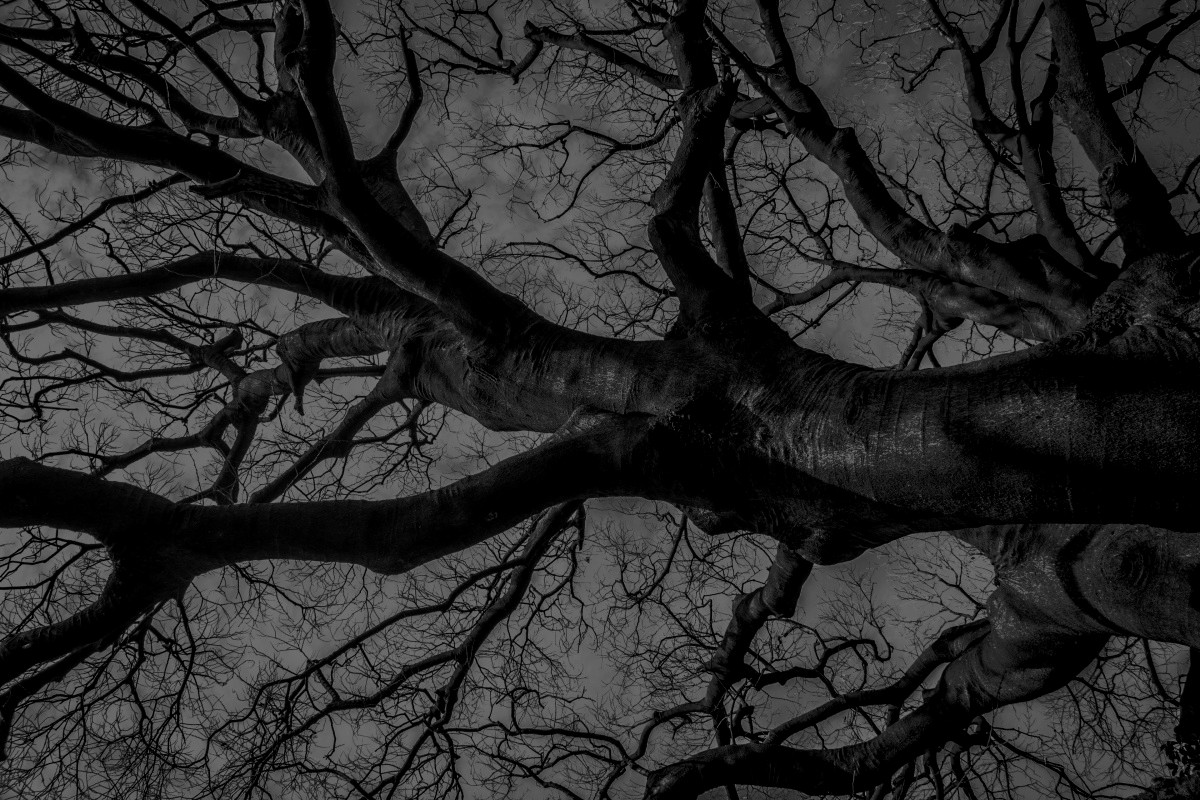
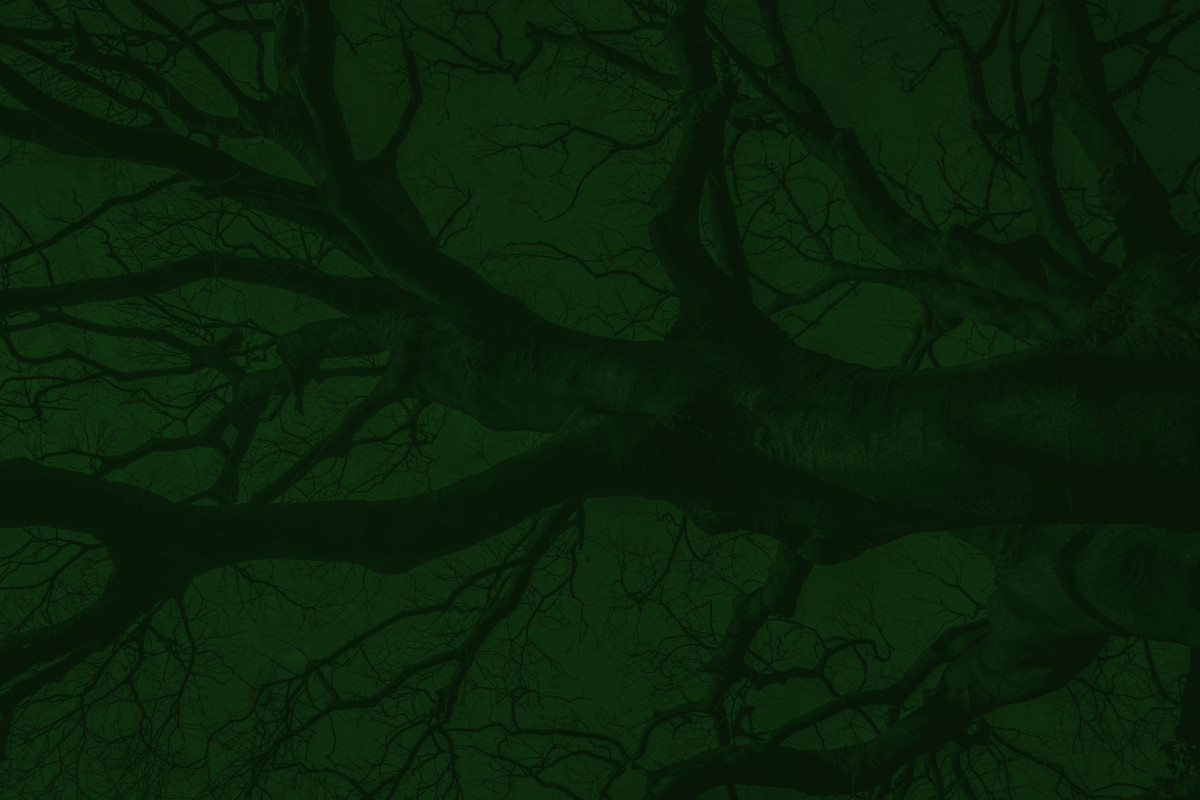
Checkpoint

diff --git a/src/www/app/component/hfi-app/hfi-app.component.js b/src/www/app/component/hfi-app/hfi-app.component.js
@@ -19,17 +19,21 @@ module.exports = {
 			$ctrl.input = data.input;
 			$ctrl.program = formatAST(data.program);
 			$ctrl.traces = data.traces;
+			
+			console.log($ctrl.data);
+			console.log($ctrl.program);
 		}
 		
 		// Load initial bundle
 		var exampleID = $location.search().x;
-		var startData = exampleID ? ExampleService.find(exampleID) : StorageService.get('bundle');
-		$ctrl.setData(startData || {
+		var startPromise = exampleID ? ExampleService.find(exampleID) : Promise.resolve(StorageService.get('bundle') || {
 			input: null,
 			program: null,
 			traces: null,
-		}, true);
+		});
+		startPromise.then(data => $ctrl.setData(data));
 		
+		// Refresh visualization
 		$ctrl.updateInput = function()
 		{
 			try
@@ -43,11 +47,12 @@ module.exports = {
 			
 			$ctrl.setData({
 				input: $ctrl.input,
-				program,
+				program: program,
 				traces: [],
 			});
 		}
 		
+		// Read contents of file
 		$ctrl.loadFile = function(file)
 		{
 			$ctrl.loading = true;
@@ -68,9 +73,9 @@ module.exports = {
 			.then(ParseService.parse)
 			.then(data => (console.timeEnd('Parse input'), data))///
 			.then(node => $ctrl.setData({
-				input: node[1].input.replace(/\\n/g, '\n'/*temp?*/),
-				program: node[1].program,
-				traces: node[1].traces,
+				input: node.input.replace(/\\n/g, '\n'/*temp?*/),
+				program: node.program,
+				traces: node.traces,
 			}))
 			.catch(console.error)
 			.finally(() => $ctrl.loading = false);
@@ -83,10 +88,36 @@ module.exports = {
 			$ctrl.showContext = !$ctrl.showContext;
 		}
 		
+		// Rewrite AST for pretty nodes
 		function formatAST(node)
 		{
 			if(!Array.isArray(node))
 			{
+				// Flatten enum values (object singletons with capital first letter key)
+				if(node && typeof node === 'object')
+				{
+					let keys = Object.keys(node);
+					for(let key of keys)
+					{
+						node[key] = formatAST(node[key]);
+					}
+					
+					// TEMP : Der<>
+					if(node.rule && node.ctx && node.dir && node.rule)
+					{
+						let sub = formatAST(node.rule);
+						node.rule = sub;
+						sub._type = node;
+						return sub;
+					}
+					
+					let key = keys[0];
+					if(keys.length === 1 && key.charAt(0) !== key.charAt(0).toLowerCase())
+					{
+						return formatAST([key].concat(node[key]));
+					}
+				}
+				
 				return node;
 			}
 			else if(node[0] === 'DebugLabel')
@@ -96,26 +127,28 @@ module.exports = {
 				sub._debug = node;
 				return sub;
 			}
-			else if(node[0] === 'Der')
-			{
-				let sub = formatAST(node[1].rule);
-				node[1].rule = sub;
-				sub._type = node[1];
-				return sub;
-			}
+			// else if(node[0] === 'Der')
+			// {
+			// 	let sub = formatAST(node[1].rule);
+			// 	node[1].rule = sub;
+			// 	sub._type = node[1];
+			// 	return sub;
+			// }
 			
-			let sub = [];
+			// let sub = [];
 			for(var i = 0; i < node.length; i++)
 			{
-				let s = node[i];
+				let s = formatAST(node[i]);
 				if(Array.isArray(s))
 				{
-					s = formatAST(s);
-					s._parent = sub;
+					// s._parent = sub;
+					s._parent = node;
 				}
-				sub[i] = s;
+				// sub[i] = s;
+				node[i] = s;
 			}
-			return sub;
+			// return sub;
+			return node;
 		}
 		
 		$ctrl.flattenFirst = function(node)
@@ -128,9 +161,6 @@ module.exports = {
 			}
 			return nodes;
 		}
-		
-		console.log($ctrl.data);
-		console.log($ctrl.program);
 		
 		// function getTree(node)
 		// {

diff --git a/src/www/app/service/example.service.js b/src/www/app/service/example.service.js
@@ -1,23 +1,33 @@
-module.exports = function ExampleService(ParseService)
+module.exports = function ExampleService($http, ParseService)
 {
-	var context = window.ExampleContext;
-	
-	this.examples = context.keys().map(id =>
-	{
-		id = id.replace(/^\.\//, '').replace(/.fgb$/, '');
+	// this.examples = context.keys().map(id =>
+	// {
+	// 	id = id.replace(/^\.\//, '').replace(/.fgb$/, '');
 		
-		return {
-			id,
-			name: id.replace(/^fungi_lang::examples::/, ''),
-			// bundle: ParseService.parse(context(id)),
-			// bundle: context(id),
-		};
-	});
+	// 	return {
+	// 		id,
+	// 		name: id.replace(/^fungi_lang::examples::/, ''),
+	// 		// bundle: ParseService.parse(context(id)),
+	// 		// bundle: context(id),
+	// 	};
+	// });
+	
+	this.getIDs = function()
+	{
+		return $http.get(`/examples`)
+			.then(response => response.data.map(id =>
+			{
+				id = id.replace(/\.fgb$/, '');
+				return {
+					id: id,
+					name: id.replace(/^fungi_lang::examples::/, ''),
+				};
+			}));
+	}
 	
 	this.find = function(id)
 	{
-		id = `./${id}.fgb`;
-		return ParseService.parse(context(id))[1];
-		return context(id);
+		return $http.get(`/examples/${id}.fgb`)
+			.then(response => response.data);
 	}
 }

diff --git a/src/server/app/Repo.js b/src/server/app/Repo.js
@@ -1,9 +1,15 @@
+var fs = require('fs');
 var exec = Promise.promisify(require('child_process').exec);
 var path = require('path');
 
-module.exports = function(log)
+var express = require('express');
+
+module.exports = function(App, log)
 {
-	var prefix = `cd ${path.resolve('repo', 'fungi-lang.rust')}`;
+	var repoPath = path.resolve('repo', 'fungi-lang.rust');
+	var examplePath = path.join(repoPath, 'target');
+	
+	var prefix = `cd ${repoPath}`;
 	
 	return exec(`${prefix} && git pull`)
 		.then(result =>
@@ -13,7 +19,12 @@ module.exports = function(log)
 				log('Updating examples...');
 				return exec(`${prefix} && cargo test`);
 			}
-			log('Skipped: updating examples');
+			log('Skipped updating examples');
 		})
-		.catch(err => console.error('Failed to update examples:', err));
+		.then(() =>
+		{
+			App.get('/examples', (req, res) => res.json(fs.readdirSync(examplePath).filter(f => f.endsWith('fgb'))))
+			App.use('/examples', express.static(examplePath));
+		})
+		.catch(err => console.error('Failed to update examples:', err.stack || err));
 }

diff --git a/src/server/app/Site.js b/src/server/app/Site.js
@@ -1,7 +1,7 @@
 var express = require('express');
 var morgan = require('morgan');
 
-module.exports = function(App, Config, Repo, log)
+module.exports = function(App, Config, log)
 {
 	if(Config.resourcePath)
 	{
@@ -12,16 +12,13 @@ module.exports = function(App, Config, Repo, log)
 		var webpack = require('webpack');
 		var devMiddleware = require('webpack-dev-middleware');
 		
-		Repo.then(() =>
-		{
-			var compiler = webpack(require(this.config.basePath + '/../webpack.config'));
-			App.use(require('webpack-hot-middleware')(compiler, {log}));
-			App.use(devMiddleware(compiler, {
-				stats: {colors: true},
-				inline: true,
-				hot: true,
-			}));
-		});
+		var compiler = webpack(require(this.config.basePath + '/../webpack.config'));
+		App.use(require('webpack-hot-middleware')(compiler, {log}));
+		App.use(devMiddleware(compiler, {
+			stats: {colors: true},
+			inline: true,
+			hot: true,
+		}));
 	}
 	
 	// App.use('/api', API);

diff --git a/src/www/app/directive/p-handle/p-handle.directive.js b/src/www/app/directive/p-handle/p-handle.directive.js
@@ -16,6 +16,11 @@ module.exports = function($parse, $compile)
 		{
 			var $ctrl = scope.$ctrl;
 			
+			if(typeof $ctrl.node === 'string')
+			{
+				$ctrl.node = [$ctrl.node];///
+			}
+			
 			var type = attrs['type'] || 'exp';
 			
 			if($ctrl.isNode($ctrl.node))
@@ -25,7 +30,7 @@ module.exports = function($parse, $compile)
 				// TODO find a proper home for this mapping
 				if($ctrl.node._type)
 				{
-					var family = $ctrl.node._type && $ctrl.node._type.vis[1].tmfam;
+					var family = $ctrl.node._type && $ctrl.node._type.vis.tmfam;
 					$ctrl.node._type.category = {
 						'nametm': 'sort',
 						'index': 'sort',

diff --git a/src/www/app/component/pretty/node/schema.js b/src/www/app/component/pretty/node/schema.js
@@ -3,7 +3,7 @@ module.exports = function(type)
 	return {
 		template: `
 			<p-handle type="${type}"
-				ng-class="{selected:$ctrl.cursor.type==$ctrl.node._type, error:$ctrl.node._type.vis[1].local_err}"
+				ng-class="{selected:$ctrl.cursor.type==$ctrl.node._type, error:$ctrl.node._type.vis.local_err}"
 				ng-mouseover="$ctrl.focus(); $event.stopPropagation()"
 				ng-mouseout="$ctrl.unfocus(); $event.stopPropagation()"
 				ng-mousedown="$ctrl.select() && $event.stopPropagation()"

diff --git a/webpack.config.js b/webpack.config.js
@@ -17,7 +17,6 @@ var config = {
 		app: wwwPath + '/app/main.js',
 		module: wwwPath + '/app/module.js',
 		// rust: wwwPath + '/app/rust.js',
-		examples: wwwPath + '/app/examples.js',
 	},
 	output: {
 		path: destPath,
@@ -41,10 +40,6 @@ var config = {
 		}, {
 			test: /\.(png|jpg|ico)$/,
 			loader: 'file-loader',
-		}, {
-			test: /\.fgb$/,
-			// loader: path.resolve(__dirname, 'fungi-bundle-loader'),
-			loader: 'raw-loader',
 		}, {
 			test: /\.rs$/,
 			use: [{

diff --git a/src/www/style/main.css b/src/www/style/main.css
@@ -50,9 +50,11 @@ textarea {
 	letter-spacing: 2px;
 }
 
-.bg-tree {
-	background: url(/assets/img/background.png);
+.bg-landing {
+	background: url(/assets/img/background.jpg) var(--darker);
+	background-attachment: fixed;
 	background-size: cover;
+	color: #FFF;
 }
 
 .bg-dark {

diff --git a/src/www/app/component/landing-app/landing-app.html b/src/www/app/component/landing-app/landing-app.html
@@ -13,7 +13,7 @@
 		</div>
 	</div>
 </div>
-<div class="bg-white text-center py-1 glow-theme">
+<div class="bg-white text-center pt-1 glow-theme">
 	<!--<ul class="list-inline">-->
 	<!--	<li class="list-inline-item">-->
 	<!--		<a href="#">Examples</a>-->

diff --git a/src/www/app/component/landing-app/landing-app.component.js b/src/www/app/component/landing-app/landing-app.component.js
@@ -4,7 +4,8 @@ module.exports = {
 	{
 		var $ctrl = this;
 		
-		$ctrl.examples = ExampleService.examples;
+		ExampleService.getIDs()
+			.then(ids => $ctrl.examples = ids);
 		
 		$ctrl.viewExample = function(example)
 		{

diff --git a/src/www/app/service/parse.service.js b/src/www/app/service/parse.service.js
@@ -4,6 +4,7 @@ module.exports = function ParseService()
 {
 	this.parse = function(input)
 	{
-		return parser(input);
+		return JSON.parse(input);
+		// return parser(input);
 	}
 }

diff --git a/src/www/style/components.css b/src/www/style/components.css
@@ -60,5 +60,5 @@
 }
 
 .glow-theme {
-	box-shadow: -.5em 0 2em var(--blue);
+	box-shadow: -.5em 0 2em var(--green);
 }
